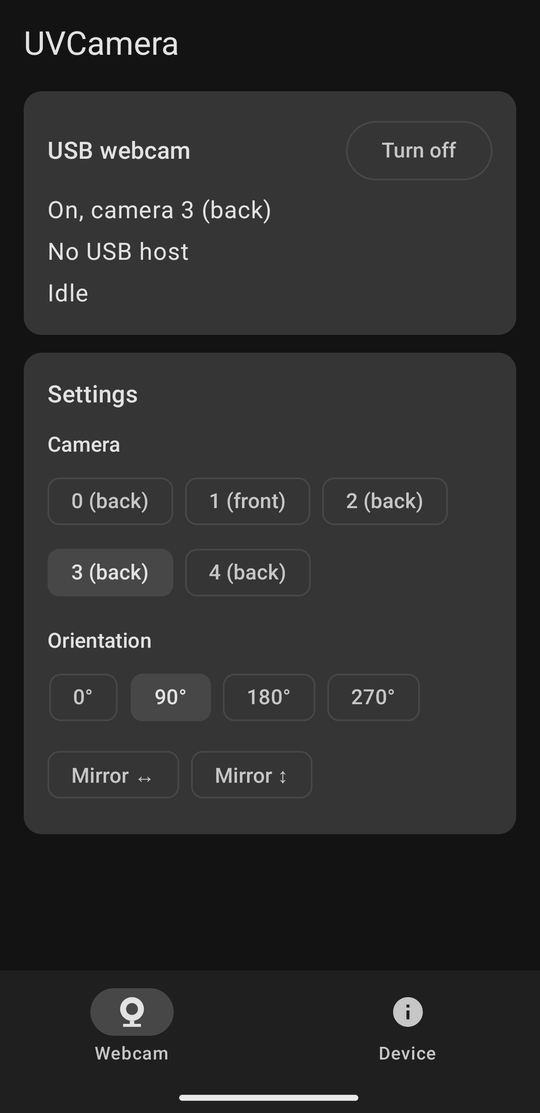
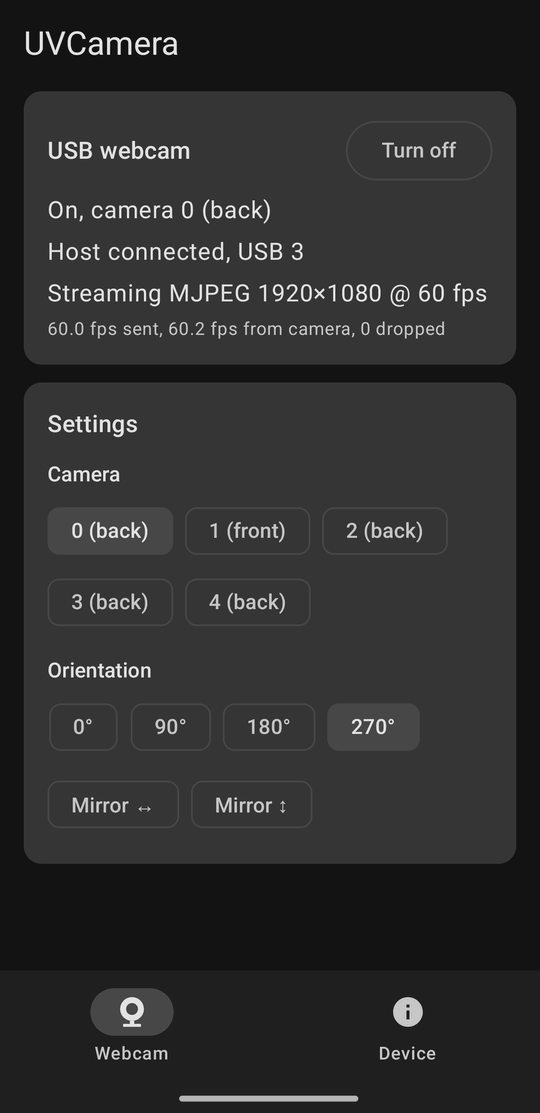
README: Webcam screenshot while streaming

diff --git a/README.md b/README.md
@@ -5,7 +5,7 @@ gadget function (`CONFIG_USB_CONFIGFS_F_UVC`), so the host sees a standard
 USB Video Class camera and needs no drivers or apps. ADB and MTP keep working.
 
 <p>
-  <img src="docs/screenshots/webcam.png" width="270" alt="Webcam page: on/off, camera and orientation">
+  <img src="docs/screenshots/webcam.png" width="270" alt="Webcam page: streaming 1080p60, camera and orientation">
   <img src="docs/screenshots/device.png" width="270" alt="Device page: system and camera capabilities">
 </p>
 
